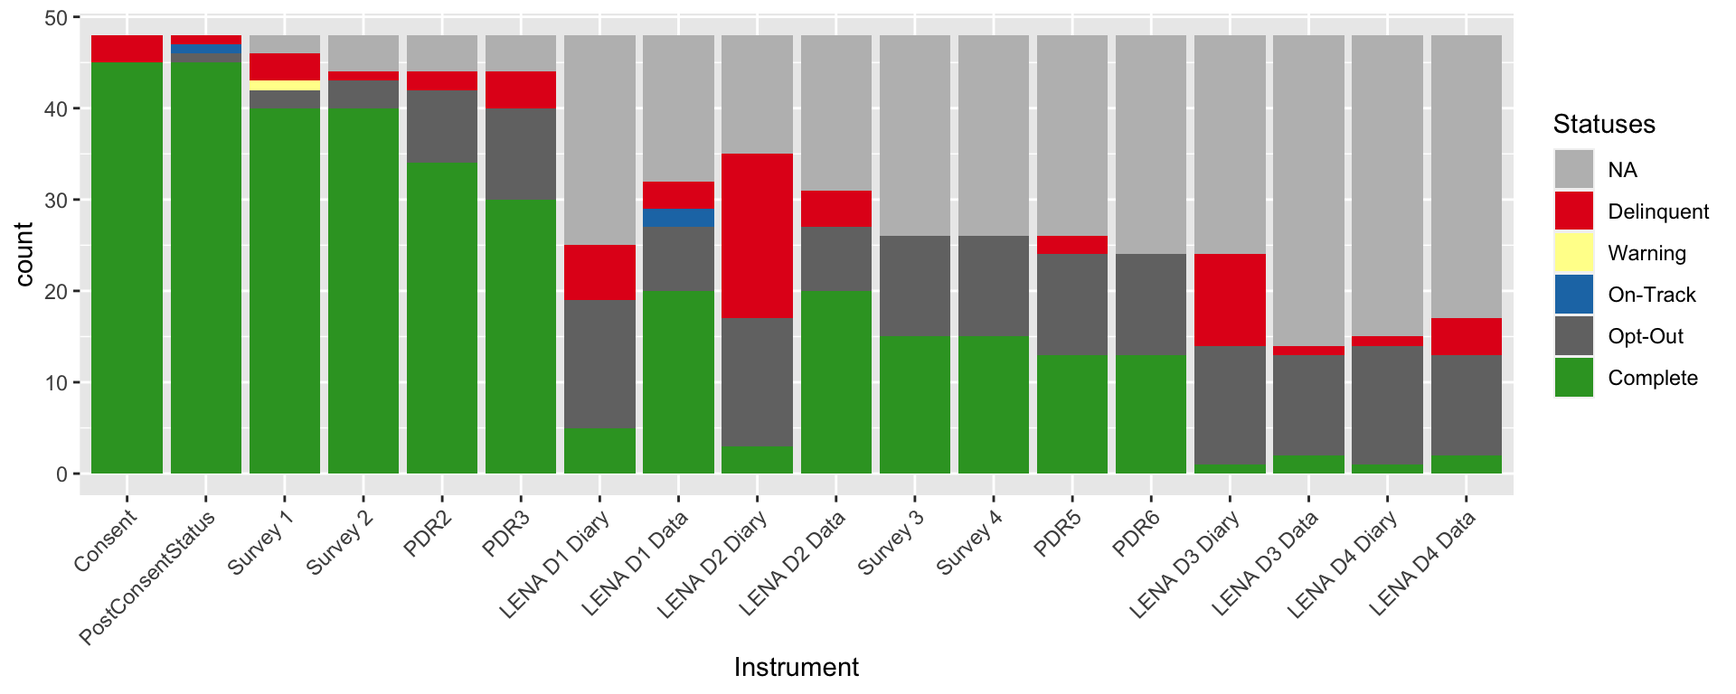
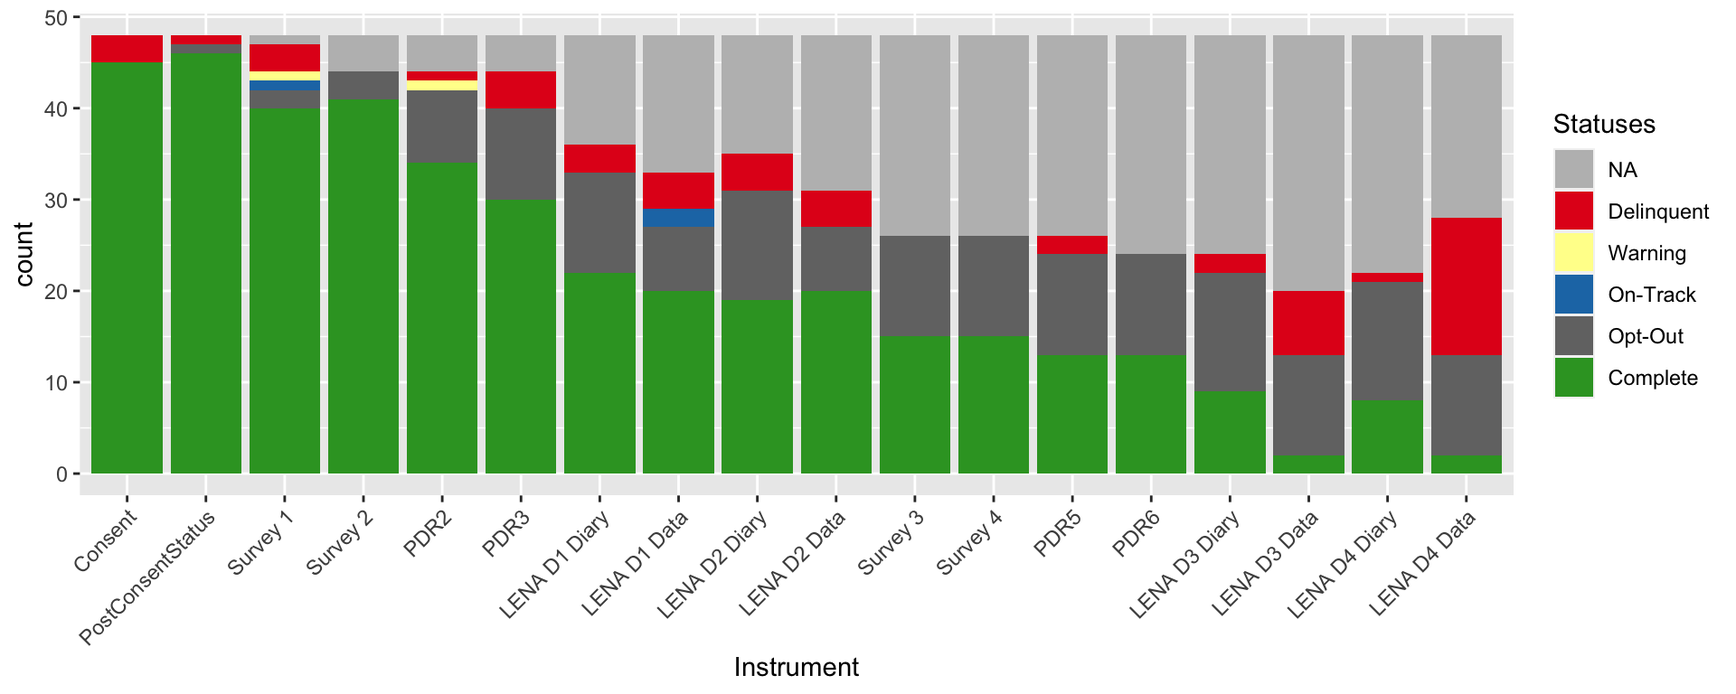
Update LENA definitions to start date instead of first question

diff --git a/_site/reports.html b/_site/reports.html
@@ -399,7 +399,7 @@ $(document).ready(function () {
 </div>
 <center>
 <div id="htmlwidget-64dbf7ed44db75815197" style="width:960px;height:384px;" class="plotly html-widget"></div>
-<script type="application/json" data-for="htmlwidget-64dbf7ed44db75815197">{"x":{"data":[{"x":[1594210295,1595855440,1595947129,1596636699,1597147658,1597190400,1597276800,1597402867,1598436608,1598538979,1598541299,1598955066,1599570320,1600250194,1600255992,1600300800,1600355481,1600387200,1600863340,1601302221,1601566658,1602239005,1603368728,1603379955,1603670400,1603977413,1604491899,1604751373,1605089156,1605179257,1605721538,1605872792,1607040000,1607472000,1607644800,1607687486,1609891200,1609897301,1611187200,1611878400,1612396800,1612396800,1612396800,1611878400,1611187200,1609897301,1609891200,1607687486,1607644800,1607472000,1607040000,1605872792,1605721538,1605179257,1605089156,1604751373,1604491899,1603977413,1603670400,1603379955,1603368728,1602239005,1601566658,1601302221,1600863340,1600387200,1600355481,1600300800,1600255992,1600250194,1599570320,1598955066,1598541299,1598538979,1598436608,1597402867,1597276800,1597190400,1597147658,1596636699,1595947129,1595855440,1594210295,1594210295],"y":[0,0,0,0,0,0,0,0,0,0,0,0,0,0,0,0,0,0,0,0,0,0,0,0,0,0,0,0,0,0,0,0,0,0,0,0,0,0,0,0,0,0,42,41,40,39,38,37,36,35,34,33,32,31,30,29,28,27,26,25,24,23,22,21,20,19,18,17,16,15,14,13,12,11,10,9,8,6,5,4,3,2,1,0],"text":["InformedConsent: 2020-07-08 19:11:35<br />Cumulative:  1","InformedConsent: 2020-07-27 20:10:40<br />Cumulative:  2","InformedConsent: 2020-07-28 21:38:49<br />Cumulative:  3","InformedConsent: 2020-08-05 21:11:39<br />Cumulative:  4","InformedConsent: 2020-08-11 19:07:38<br />Cumulative:  5","InformedConsent: 2020-08-12 07:00:00<br />Cumulative:  6","InformedConsent: 2020-08-13 07:00:00<br />Cumulative:  8","InformedConsent: 2020-08-14 18:01:07<br />Cumulative:  9","InformedConsent: 2020-08-26 17:10:08<br />Cumulative: 10","InformedConsent: 2020-08-27 21:36:19<br />Cumulative: 11","InformedConsent: 2020-08-27 22:14:59<br />Cumulative: 12","InformedConsent: 2020-09-01 17:11:06<br />Cumulative: 13","InformedConsent: 2020-09-08 20:05:20<br />Cumulative: 14","InformedConsent: 2020-09-16 16:56:34<br />Cumulative: 15","InformedConsent: 2020-09-16 18:33:12<br />Cumulative: 16","InformedConsent: 2020-09-17 07:00:00<br />Cumulative: 17","InformedConsent: 2020-09-17 22:11:21<br />Cumulative: 18","InformedConsent: 2020-09-18 07:00:00<br />Cumulative: 19","InformedConsent: 2020-09-23 19:15:40<br />Cumulative: 20","InformedConsent: 2020-09-28 21:10:21<br />Cumulative: 21","InformedConsent: 2020-10-01 22:37:38<br />Cumulative: 22","InformedConsent: 2020-10-09 17:23:25<br />Cumulative: 23","InformedConsent: 2020-10-22 19:12:08<br />Cumulative: 24","InformedConsent: 2020-10-22 22:19:15<br />Cumulative: 25","InformedConsent: 2020-10-26 07:00:00<br />Cumulative: 26","InformedConsent: 2020-10-29 20:16:53<br />Cumulative: 27","InformedConsent: 2020-11-04 20:11:39<br />Cumulative: 28","InformedConsent: 2020-11-07 20:16:13<br />Cumulative: 29","InformedConsent: 2020-11-11 18:05:56<br />Cumulative: 30","InformedConsent: 2020-11-12 19:07:37<br />Cumulative: 31","InformedConsent: 2020-11-19 01:45:38<br />Cumulative: 32","InformedConsent: 2020-11-20 19:46:32<br />Cumulative: 33","InformedConsent: 2020-12-04 08:00:00<br />Cumulative: 34","InformedConsent: 2020-12-09 08:00:00<br />Cumulative: 35","InformedConsent: 2020-12-11 08:00:00<br />Cumulative: 36","InformedConsent: 2020-12-11 19:51:26<br />Cumulative: 37","InformedConsent: 2021-01-06 08:00:00<br />Cumulative: 38","InformedConsent: 2021-01-06 09:41:41<br />Cumulative: 39","InformedConsent: 2021-01-21 08:00:00<br />Cumulative: 40","InformedConsent: 2021-01-29 08:00:00<br />Cumulative: 41","InformedConsent: 2021-02-04 08:00:00<br />Cumulative: 42","InformedConsent: 2021-02-04 08:00:00<br />Cumulative: 42","InformedConsent: 2021-02-04 08:00:00<br />Cumulative: 42","InformedConsent: 2021-01-29 08:00:00<br />Cumulative: 41","InformedConsent: 2021-01-21 08:00:00<br />Cumulative: 40","InformedConsent: 2021-01-06 09:41:41<br />Cumulative: 39","InformedConsent: 2021-01-06 08:00:00<br />Cumulative: 38","InformedConsent: 2020-12-11 19:51:26<br />Cumulative: 37","InformedConsent: 2020-12-11 08:00:00<br />Cumulative: 36","InformedConsent: 2020-12-09 08:00:00<br />Cumulative: 35","InformedConsent: 2020-12-04 08:00:00<br />Cumulative: 34","InformedConsent: 2020-11-20 19:46:32<br />Cumulative: 33","InformedConsent: 2020-11-19 01:45:38<br />Cumulative: 32","InformedConsent: 2020-11-12 19:07:37<br />Cumulative: 31","InformedConsent: 2020-11-11 18:05:56<br />Cumulative: 30","InformedConsent: 2020-11-07 20:16:13<br />Cumulative: 29","InformedConsent: 2020-11-04 20:11:39<br />Cumulative: 28","InformedConsent: 2020-10-29 20:16:53<br />Cumulative: 27","InformedConsent: 2020-10-26 07:00:00<br />Cumulative: 26","InformedConsent: 2020-10-22 22:19:15<br />Cumulative: 25","InformedConsent: 2020-10-22 19:12:08<br />Cumulative: 24","InformedConsent: 2020-10-09 17:23:25<br />Cumulative: 23","InformedConsent: 2020-10-01 22:37:38<br />Cumulative: 22","InformedConsent: 2020-09-28 21:10:21<br />Cumulative: 21","InformedConsent: 2020-09-23 19:15:40<br />Cumulative: 20","InformedConsent: 2020-09-18 07:00:00<br />Cumulative: 19","InformedConsent: 2020-09-17 22:11:21<br />Cumulative: 18","InformedConsent: 2020-09-17 07:00:00<br />Cumulative: 17","InformedConsent: 2020-09-16 18:33:12<br />Cumulative: 16","InformedConsent: 2020-09-16 16:56:34<br />Cumulative: 15","InformedConsent: 2020-09-08 20:05:20<br />Cumulative: 14","InformedConsent: 2020-09-01 17:11:06<br />Cumulative: 13","InformedConsent: 2020-08-27 22:14:59<br />Cumulative: 12","InformedConsent: 2020-08-27 21:36:19<br />Cumulative: 11","InformedConsent: 2020-08-26 17:10:08<br />Cumulative: 10","InformedConsent: 2020-08-14 18:01:07<br />Cumulative:  9","InformedConsent: 2020-08-13 07:00:00<br />Cumulative:  8","InformedConsent: 2020-08-12 07:00:00<br />Cumulative:  6","InformedConsent: 2020-08-11 19:07:38<br />Cumulative:  5","InformedConsent: 2020-08-05 21:11:39<br />Cumulative:  4","InformedConsent: 2020-07-28 21:38:49<br />Cumulative:  3","InformedConsent: 2020-07-27 20:10:40<br />Cumulative:  2","InformedConsent: 2020-07-08 19:11:35<br />Cumulative:  1","InformedConsent: 2020-07-08 19:11:35<br />Cumulative:  1"],"type":"scatter","mode":"lines","line":{"width":1.88976377952756,"color":"transparent","dash":"solid"},"fill":"toself","fillcolor":"rgba(105,179,162,0.5)","hoveron":"points","showlegend":false,"xaxis":"x","yaxis":"y","hoverinfo":"text","frame":null},{"x":[1594210295,1595855440,1595947129,1596636699,1597147658,1597190400,1597276800,1597402867,1598436608,1598538979,1598541299,1598955066,1599570320,1600250194,1600255992,1600300800,1600355481,1600387200,1600863340,1601302221,1601566658,1602239005,1603368728,1603379955,1603670400,1603977413,1604491899,1604751373,1605089156,1605179257,1605721538,1605872792,1607040000,1607472000,1607644800,1607687486,1609891200,1609897301,1611187200,1611878400,1612396800,null],"y":[1,2,3,4,5,6,8,9,10,11,12,13,14,15,16,17,18,19,20,21,22,23,24,25,26,27,28,29,30,31,32,33,34,35,36,37,38,39,40,41,42,48],"text":["InformedConsent: 2020-07-08 12:11:35<br />Cumulative:  1","InformedConsent: 2020-07-27 13:10:40<br />Cumulative:  2","InformedConsent: 2020-07-28 14:38:49<br />Cumulative:  3","InformedConsent: 2020-08-05 14:11:39<br />Cumulative:  4","InformedConsent: 2020-08-11 12:07:38<br />Cumulative:  5","InformedConsent: 2020-08-12 00:00:00<br />Cumulative:  6","InformedConsent: 2020-08-13 00:00:00<br />Cumulative:  8","InformedConsent: 2020-08-14 11:01:07<br />Cumulative:  9","InformedConsent: 2020-08-26 10:10:08<br />Cumulative: 10","InformedConsent: 2020-08-27 14:36:19<br />Cumulative: 11","InformedConsent: 2020-08-27 15:14:59<br />Cumulative: 12","InformedConsent: 2020-09-01 10:11:06<br />Cumulative: 13","InformedConsent: 2020-09-08 13:05:20<br />Cumulative: 14","InformedConsent: 2020-09-16 09:56:34<br />Cumulative: 15","InformedConsent: 2020-09-16 11:33:12<br />Cumulative: 16","InformedConsent: 2020-09-17 00:00:00<br />Cumulative: 17","InformedConsent: 2020-09-17 15:11:21<br />Cumulative: 18","InformedConsent: 2020-09-18 00:00:00<br />Cumulative: 19","InformedConsent: 2020-09-23 12:15:40<br />Cumulative: 20","InformedConsent: 2020-09-28 14:10:21<br />Cumulative: 21","InformedConsent: 2020-10-01 15:37:38<br />Cumulative: 22","InformedConsent: 2020-10-09 10:23:25<br />Cumulative: 23","InformedConsent: 2020-10-22 12:12:08<br />Cumulative: 24","InformedConsent: 2020-10-22 15:19:15<br />Cumulative: 25","InformedConsent: 2020-10-26 00:00:00<br />Cumulative: 26","InformedConsent: 2020-10-29 13:16:53<br />Cumulative: 27","InformedConsent: 2020-11-04 12:11:39<br />Cumulative: 28","InformedConsent: 2020-11-07 12:16:13<br />Cumulative: 29","InformedConsent: 2020-11-11 10:05:56<br />Cumulative: 30","InformedConsent: 2020-11-12 11:07:37<br />Cumulative: 31","InformedConsent: 2020-11-18 17:45:38<br />Cumulative: 32","InformedConsent: 2020-11-20 11:46:32<br />Cumulative: 33","InformedConsent: 2020-12-04 00:00:00<br />Cumulative: 34","InformedConsent: 2020-12-09 00:00:00<br />Cumulative: 35","InformedConsent: 2020-12-11 00:00:00<br />Cumulative: 36","InformedConsent: 2020-12-11 11:51:26<br />Cumulative: 37","InformedConsent: 2021-01-06 00:00:00<br />Cumulative: 38","InformedConsent: 2021-01-06 01:41:41<br />Cumulative: 39","InformedConsent: 2021-01-21 00:00:00<br />Cumulative: 40","InformedConsent: 2021-01-29 00:00:00<br />Cumulative: 41","InformedConsent: 2021-02-04 00:00:00<br />Cumulative: 42","InformedConsent: NA<br />Cumulative: 48"],"type":"scatter","mode":"lines","line":{"width":1.88976377952756,"color":"rgba(105,179,162,1)","dash":"solid"},"hoveron":"points","showlegend":false,"xaxis":"x","yaxis":"y","hoverinfo":"text","frame":null}],"layout":{"margin":{"t":65.813200498132,"r":39.8505603985056,"b":80.8634288086343,"l":70.9007887090079},"font":{"color":"rgba(0,0,0,1)","family":"Arial Narrow","size":15.2760481527605},"xaxis":{"domain":[0,1],"automargin":true,"type":"linear","autorange":false,"range":[1593300969.75,1613306125.25],"tickmode":"array","ticktext":["Jul","Oct","Jan"],"tickvals":[1593561600,1601510400,1609459200],"categoryorder":"array","categoryarray":["Jul","Oct","Jan"],"nticks":null,"ticks":"","tickcolor":null,"ticklen":3.81901203819012,"tickwidth":0,"showticklabels":true,"tickfont":{"color":"rgba(77,77,77,1)","family":"Arial Narrow","size":15.2760481527605},"tickangle":-0,"showline":false,"linecolor":null,"linewidth":0,"showgrid":true,"gridcolor":"rgba(204,204,204,1)","gridwidth":0.265670402656704,"zeroline":false,"anchor":"y","title":{"text":"Time","font":{"color":"rgba(0,0,0,1)","family":"Arial Narrow","size":11.9551681195517}},"hoverformat":".2f"},"yaxis":{"domain":[0,1],"automargin":true,"type":"linear","autorange":false,"range":[-2.4,50.4],"tickmode":"array","ticktext":["0","10","20","30","40","50"],"tickvals":[0,10,20,30,40,50],"categoryorder":"array","categoryarray":["0","10","20","30","40","50"],"nticks":null,"ticks":"","tickcolor":null,"ticklen":3.81901203819012,"tickwidth":0,"showticklabels":true,"tickfont":{"color":"rgba(77,77,77,1)","family":"Arial Narrow","size":15.2760481527605},"tickangle":-0,"showline":false,"linecolor":null,"linewidth":0,"showgrid":true,"gridcolor":"rgba(204,204,204,1)","gridwidth":0.265670402656704,"zeroline":false,"anchor":"x","title":{"text":"Dyad Count","font":{"color":"rgba(0,0,0,1)","family":"Arial Narrow","size":11.9551681195517}},"hoverformat":".2f"},"shapes":[{"type":"rect","fillcolor":null,"line":{"color":null,"width":0,"linetype":[]},"yref":"paper","xref":"paper","x0":0,"x1":1,"y0":0,"y1":1}],"showlegend":false,"legend":{"bgcolor":null,"bordercolor":null,"borderwidth":0,"font":{"color":"rgba(0,0,0,1)","family":"Arial Narrow","size":12.2208385222084}},"hovermode":"closest","barmode":"relative"},"config":{"doubleClick":"reset","showSendToCloud":false},"source":"A","attrs":{"e2d06a9a5a6b":{"x":{},"y":{},"type":"scatter"},"e2d03ba65d7a":{"x":{},"y":{}}},"cur_data":"e2d06a9a5a6b","visdat":{"e2d06a9a5a6b":["function (y) ","x"],"e2d03ba65d7a":["function (y) ","x"]},"highlight":{"on":"plotly_click","persistent":false,"dynamic":false,"selectize":false,"opacityDim":0.2,"selected":{"opacity":1},"debounce":0},"shinyEvents":["plotly_hover","plotly_click","plotly_selected","plotly_relayout","plotly_brushed","plotly_brushing","plotly_clickannotation","plotly_doubleclick","plotly_deselect","plotly_afterplot","plotly_sunburstclick"],"base_url":"https://plot.ly"},"evals":[],"jsHooks":[]}</script><img src="reports_files/figure-html/SEAL%20Conditions%20Plot-2.png" width="960" />
+<script type="application/json" data-for="htmlwidget-64dbf7ed44db75815197">{"x":{"data":[{"x":[1594210295,1595855440,1595947129,1596636699,1597147658,1597190400,1597276800,1597402867,1598436608,1598538979,1598541299,1598955066,1599570320,1600250194,1600255992,1600300800,1600355481,1600387200,1600863340,1601302221,1601566658,1602239005,1603368728,1603379955,1603670400,1603977413,1604491899,1604751373,1605089156,1605179257,1605721538,1605872792,1607040000,1607472000,1607644800,1607687486,1609891200,1609897301,1611187200,1611878400,1612396800,1612396800,1612396800,1611878400,1611187200,1609897301,1609891200,1607687486,1607644800,1607472000,1607040000,1605872792,1605721538,1605179257,1605089156,1604751373,1604491899,1603977413,1603670400,1603379955,1603368728,1602239005,1601566658,1601302221,1600863340,1600387200,1600355481,1600300800,1600255992,1600250194,1599570320,1598955066,1598541299,1598538979,1598436608,1597402867,1597276800,1597190400,1597147658,1596636699,1595947129,1595855440,1594210295,1594210295],"y":[0,0,0,0,0,0,0,0,0,0,0,0,0,0,0,0,0,0,0,0,0,0,0,0,0,0,0,0,0,0,0,0,0,0,0,0,0,0,0,0,0,0,42,41,40,39,38,37,36,35,34,33,32,31,30,29,28,27,26,25,24,23,22,21,20,19,18,17,16,15,14,13,12,11,10,9,8,6,5,4,3,2,1,0],"text":["InformedConsent: 2020-07-08 19:11:35<br />Cumulative:  1","InformedConsent: 2020-07-27 20:10:40<br />Cumulative:  2","InformedConsent: 2020-07-28 21:38:49<br />Cumulative:  3","InformedConsent: 2020-08-05 21:11:39<br />Cumulative:  4","InformedConsent: 2020-08-11 19:07:38<br />Cumulative:  5","InformedConsent: 2020-08-12 07:00:00<br />Cumulative:  6","InformedConsent: 2020-08-13 07:00:00<br />Cumulative:  8","InformedConsent: 2020-08-14 18:01:07<br />Cumulative:  9","InformedConsent: 2020-08-26 17:10:08<br />Cumulative: 10","InformedConsent: 2020-08-27 21:36:19<br />Cumulative: 11","InformedConsent: 2020-08-27 22:14:59<br />Cumulative: 12","InformedConsent: 2020-09-01 17:11:06<br />Cumulative: 13","InformedConsent: 2020-09-08 20:05:20<br />Cumulative: 14","InformedConsent: 2020-09-16 16:56:34<br />Cumulative: 15","InformedConsent: 2020-09-16 18:33:12<br />Cumulative: 16","InformedConsent: 2020-09-17 07:00:00<br />Cumulative: 17","InformedConsent: 2020-09-17 22:11:21<br />Cumulative: 18","InformedConsent: 2020-09-18 07:00:00<br />Cumulative: 19","InformedConsent: 2020-09-23 19:15:40<br />Cumulative: 20","InformedConsent: 2020-09-28 21:10:21<br />Cumulative: 21","InformedConsent: 2020-10-01 22:37:38<br />Cumulative: 22","InformedConsent: 2020-10-09 17:23:25<br />Cumulative: 23","InformedConsent: 2020-10-22 19:12:08<br />Cumulative: 24","InformedConsent: 2020-10-22 22:19:15<br />Cumulative: 25","InformedConsent: 2020-10-26 07:00:00<br />Cumulative: 26","InformedConsent: 2020-10-29 20:16:53<br />Cumulative: 27","InformedConsent: 2020-11-04 20:11:39<br />Cumulative: 28","InformedConsent: 2020-11-07 20:16:13<br />Cumulative: 29","InformedConsent: 2020-11-11 18:05:56<br />Cumulative: 30","InformedConsent: 2020-11-12 19:07:37<br />Cumulative: 31","InformedConsent: 2020-11-19 01:45:38<br />Cumulative: 32","InformedConsent: 2020-11-20 19:46:32<br />Cumulative: 33","InformedConsent: 2020-12-04 08:00:00<br />Cumulative: 34","InformedConsent: 2020-12-09 08:00:00<br />Cumulative: 35","InformedConsent: 2020-12-11 08:00:00<br />Cumulative: 36","InformedConsent: 2020-12-11 19:51:26<br />Cumulative: 37","InformedConsent: 2021-01-06 08:00:00<br />Cumulative: 38","InformedConsent: 2021-01-06 09:41:41<br />Cumulative: 39","InformedConsent: 2021-01-21 08:00:00<br />Cumulative: 40","InformedConsent: 2021-01-29 08:00:00<br />Cumulative: 41","InformedConsent: 2021-02-04 08:00:00<br />Cumulative: 42","InformedConsent: 2021-02-04 08:00:00<br />Cumulative: 42","InformedConsent: 2021-02-04 08:00:00<br />Cumulative: 42","InformedConsent: 2021-01-29 08:00:00<br />Cumulative: 41","InformedConsent: 2021-01-21 08:00:00<br />Cumulative: 40","InformedConsent: 2021-01-06 09:41:41<br />Cumulative: 39","InformedConsent: 2021-01-06 08:00:00<br />Cumulative: 38","InformedConsent: 2020-12-11 19:51:26<br />Cumulative: 37","InformedConsent: 2020-12-11 08:00:00<br />Cumulative: 36","InformedConsent: 2020-12-09 08:00:00<br />Cumulative: 35","InformedConsent: 2020-12-04 08:00:00<br />Cumulative: 34","InformedConsent: 2020-11-20 19:46:32<br />Cumulative: 33","InformedConsent: 2020-11-19 01:45:38<br />Cumulative: 32","InformedConsent: 2020-11-12 19:07:37<br />Cumulative: 31","InformedConsent: 2020-11-11 18:05:56<br />Cumulative: 30","InformedConsent: 2020-11-07 20:16:13<br />Cumulative: 29","InformedConsent: 2020-11-04 20:11:39<br />Cumulative: 28","InformedConsent: 2020-10-29 20:16:53<br />Cumulative: 27","InformedConsent: 2020-10-26 07:00:00<br />Cumulative: 26","InformedConsent: 2020-10-22 22:19:15<br />Cumulative: 25","InformedConsent: 2020-10-22 19:12:08<br />Cumulative: 24","InformedConsent: 2020-10-09 17:23:25<br />Cumulative: 23","InformedConsent: 2020-10-01 22:37:38<br />Cumulative: 22","InformedConsent: 2020-09-28 21:10:21<br />Cumulative: 21","InformedConsent: 2020-09-23 19:15:40<br />Cumulative: 20","InformedConsent: 2020-09-18 07:00:00<br />Cumulative: 19","InformedConsent: 2020-09-17 22:11:21<br />Cumulative: 18","InformedConsent: 2020-09-17 07:00:00<br />Cumulative: 17","InformedConsent: 2020-09-16 18:33:12<br />Cumulative: 16","InformedConsent: 2020-09-16 16:56:34<br />Cumulative: 15","InformedConsent: 2020-09-08 20:05:20<br />Cumulative: 14","InformedConsent: 2020-09-01 17:11:06<br />Cumulative: 13","InformedConsent: 2020-08-27 22:14:59<br />Cumulative: 12","InformedConsent: 2020-08-27 21:36:19<br />Cumulative: 11","InformedConsent: 2020-08-26 17:10:08<br />Cumulative: 10","InformedConsent: 2020-08-14 18:01:07<br />Cumulative:  9","InformedConsent: 2020-08-13 07:00:00<br />Cumulative:  8","InformedConsent: 2020-08-12 07:00:00<br />Cumulative:  6","InformedConsent: 2020-08-11 19:07:38<br />Cumulative:  5","InformedConsent: 2020-08-05 21:11:39<br />Cumulative:  4","InformedConsent: 2020-07-28 21:38:49<br />Cumulative:  3","InformedConsent: 2020-07-27 20:10:40<br />Cumulative:  2","InformedConsent: 2020-07-08 19:11:35<br />Cumulative:  1","InformedConsent: 2020-07-08 19:11:35<br />Cumulative:  1"],"type":"scatter","mode":"lines","line":{"width":1.88976377952756,"color":"transparent","dash":"solid"},"fill":"toself","fillcolor":"rgba(105,179,162,0.5)","hoveron":"points","showlegend":false,"xaxis":"x","yaxis":"y","hoverinfo":"text","frame":null},{"x":[1594210295,1595855440,1595947129,1596636699,1597147658,1597190400,1597276800,1597402867,1598436608,1598538979,1598541299,1598955066,1599570320,1600250194,1600255992,1600300800,1600355481,1600387200,1600863340,1601302221,1601566658,1602239005,1603368728,1603379955,1603670400,1603977413,1604491899,1604751373,1605089156,1605179257,1605721538,1605872792,1607040000,1607472000,1607644800,1607687486,1609891200,1609897301,1611187200,1611878400,1612396800,null],"y":[1,2,3,4,5,6,8,9,10,11,12,13,14,15,16,17,18,19,20,21,22,23,24,25,26,27,28,29,30,31,32,33,34,35,36,37,38,39,40,41,42,48],"text":["InformedConsent: 2020-07-08 12:11:35<br />Cumulative:  1","InformedConsent: 2020-07-27 13:10:40<br />Cumulative:  2","InformedConsent: 2020-07-28 14:38:49<br />Cumulative:  3","InformedConsent: 2020-08-05 14:11:39<br />Cumulative:  4","InformedConsent: 2020-08-11 12:07:38<br />Cumulative:  5","InformedConsent: 2020-08-12 00:00:00<br />Cumulative:  6","InformedConsent: 2020-08-13 00:00:00<br />Cumulative:  8","InformedConsent: 2020-08-14 11:01:07<br />Cumulative:  9","InformedConsent: 2020-08-26 10:10:08<br />Cumulative: 10","InformedConsent: 2020-08-27 14:36:19<br />Cumulative: 11","InformedConsent: 2020-08-27 15:14:59<br />Cumulative: 12","InformedConsent: 2020-09-01 10:11:06<br />Cumulative: 13","InformedConsent: 2020-09-08 13:05:20<br />Cumulative: 14","InformedConsent: 2020-09-16 09:56:34<br />Cumulative: 15","InformedConsent: 2020-09-16 11:33:12<br />Cumulative: 16","InformedConsent: 2020-09-17 00:00:00<br />Cumulative: 17","InformedConsent: 2020-09-17 15:11:21<br />Cumulative: 18","InformedConsent: 2020-09-18 00:00:00<br />Cumulative: 19","InformedConsent: 2020-09-23 12:15:40<br />Cumulative: 20","InformedConsent: 2020-09-28 14:10:21<br />Cumulative: 21","InformedConsent: 2020-10-01 15:37:38<br />Cumulative: 22","InformedConsent: 2020-10-09 10:23:25<br />Cumulative: 23","InformedConsent: 2020-10-22 12:12:08<br />Cumulative: 24","InformedConsent: 2020-10-22 15:19:15<br />Cumulative: 25","InformedConsent: 2020-10-26 00:00:00<br />Cumulative: 26","InformedConsent: 2020-10-29 13:16:53<br />Cumulative: 27","InformedConsent: 2020-11-04 12:11:39<br />Cumulative: 28","InformedConsent: 2020-11-07 12:16:13<br />Cumulative: 29","InformedConsent: 2020-11-11 10:05:56<br />Cumulative: 30","InformedConsent: 2020-11-12 11:07:37<br />Cumulative: 31","InformedConsent: 2020-11-18 17:45:38<br />Cumulative: 32","InformedConsent: 2020-11-20 11:46:32<br />Cumulative: 33","InformedConsent: 2020-12-04 00:00:00<br />Cumulative: 34","InformedConsent: 2020-12-09 00:00:00<br />Cumulative: 35","InformedConsent: 2020-12-11 00:00:00<br />Cumulative: 36","InformedConsent: 2020-12-11 11:51:26<br />Cumulative: 37","InformedConsent: 2021-01-06 00:00:00<br />Cumulative: 38","InformedConsent: 2021-01-06 01:41:41<br />Cumulative: 39","InformedConsent: 2021-01-21 00:00:00<br />Cumulative: 40","InformedConsent: 2021-01-29 00:00:00<br />Cumulative: 41","InformedConsent: 2021-02-04 00:00:00<br />Cumulative: 42","InformedConsent: NA<br />Cumulative: 48"],"type":"scatter","mode":"lines","line":{"width":1.88976377952756,"color":"rgba(105,179,162,1)","dash":"solid"},"hoveron":"points","showlegend":false,"xaxis":"x","yaxis":"y","hoverinfo":"text","frame":null}],"layout":{"margin":{"t":65.813200498132,"r":39.8505603985056,"b":80.8634288086343,"l":70.9007887090079},"font":{"color":"rgba(0,0,0,1)","family":"Arial Narrow","size":15.2760481527605},"xaxis":{"domain":[0,1],"automargin":true,"type":"linear","autorange":false,"range":[1593300969.75,1613306125.25],"tickmode":"array","ticktext":["Jul","Oct","Jan"],"tickvals":[1593561600,1601510400,1609459200],"categoryorder":"array","categoryarray":["Jul","Oct","Jan"],"nticks":null,"ticks":"","tickcolor":null,"ticklen":3.81901203819012,"tickwidth":0,"showticklabels":true,"tickfont":{"color":"rgba(77,77,77,1)","family":"Arial Narrow","size":15.2760481527605},"tickangle":-0,"showline":false,"linecolor":null,"linewidth":0,"showgrid":true,"gridcolor":"rgba(204,204,204,1)","gridwidth":0.265670402656704,"zeroline":false,"anchor":"y","title":{"text":"Time","font":{"color":"rgba(0,0,0,1)","family":"Arial Narrow","size":11.9551681195517}},"hoverformat":".2f"},"yaxis":{"domain":[0,1],"automargin":true,"type":"linear","autorange":false,"range":[-2.4,50.4],"tickmode":"array","ticktext":["0","10","20","30","40","50"],"tickvals":[0,10,20,30,40,50],"categoryorder":"array","categoryarray":["0","10","20","30","40","50"],"nticks":null,"ticks":"","tickcolor":null,"ticklen":3.81901203819012,"tickwidth":0,"showticklabels":true,"tickfont":{"color":"rgba(77,77,77,1)","family":"Arial Narrow","size":15.2760481527605},"tickangle":-0,"showline":false,"linecolor":null,"linewidth":0,"showgrid":true,"gridcolor":"rgba(204,204,204,1)","gridwidth":0.265670402656704,"zeroline":false,"anchor":"x","title":{"text":"Dyad Count","font":{"color":"rgba(0,0,0,1)","family":"Arial Narrow","size":11.9551681195517}},"hoverformat":".2f"},"shapes":[{"type":"rect","fillcolor":null,"line":{"color":null,"width":0,"linetype":[]},"yref":"paper","xref":"paper","x0":0,"x1":1,"y0":0,"y1":1}],"showlegend":false,"legend":{"bgcolor":null,"bordercolor":null,"borderwidth":0,"font":{"color":"rgba(0,0,0,1)","family":"Arial Narrow","size":12.2208385222084}},"hovermode":"closest","barmode":"relative"},"config":{"doubleClick":"reset","showSendToCloud":false},"source":"A","attrs":{"10b3c5a11a2d4":{"x":{},"y":{},"type":"scatter"},"10b3c3bd93a7e":{"x":{},"y":{}}},"cur_data":"10b3c5a11a2d4","visdat":{"10b3c5a11a2d4":["function (y) ","x"],"10b3c3bd93a7e":["function (y) ","x"]},"highlight":{"on":"plotly_click","persistent":false,"dynamic":false,"selectize":false,"opacityDim":0.2,"selected":{"opacity":1},"debounce":0},"shinyEvents":["plotly_hover","plotly_click","plotly_selected","plotly_relayout","plotly_brushed","plotly_brushing","plotly_clickannotation","plotly_doubleclick","plotly_deselect","plotly_afterplot","plotly_sunburstclick"],"base_url":"https://plot.ly"},"evals":[],"jsHooks":[]}</script><img src="reports_files/figure-html/SEAL%20Conditions%20Plot-2.png" width="960" />
 <center>
 <div>
 

diff --git a/_site/enrollment.html b/_site/enrollment.html
@@ -400,18 +400,18 @@ $(document).ready(function () {
 </div>
 <div class="btn-group btn-group-justified">
 <div class="btn-group">
-<a href="#" class="btn btn-default"><strong>Post-Consent Complete</strong><br>42</a>
+<a href="#" class="btn btn-default"><strong>Post-Consent Complete</strong><br>43</a>
 </div>
 <div class="btn-group">
-<a href="#" class="btn btn-default"><strong>Post-Consent In Progress</strong><br>3</a>
+<a href="#" class="btn btn-default"><strong>Post-Consent In Progress</strong><br>2</a>
 </div>
 </div>
 <div class="btn-group btn-group-justified">
 <div class="btn-group">
-<a href="#" class="btn btn-primary"><strong>Wave 1 Complete</strong><br>3</a>
+<a href="#" class="btn btn-primary"><strong>Wave 1 Complete</strong><br>19</a>
 </div>
 <div class="btn-group">
-<a href="#" class="btn btn-primary"><strong>Wave 1 In Progress</strong><br>21</a>
+<a href="#" class="btn btn-primary"><strong>Wave 1 In Progress</strong><br>7</a>
 </div>
 <div class="btn-group">
 <a href="#" class="btn btn-primary"><strong>Wave 1 Drop-Outs</strong><br> 9 </a>
@@ -422,7 +422,7 @@ $(document).ready(function () {
 <a href="#" class="btn btn-success"><strong>Intervention Complete</strong><br>14</a>
 </div>
 <div class="btn-group">
-<a href="#" class="btn btn-success"><strong>Intervention In Progress</strong><br>3</a>
+<a href="#" class="btn btn-success"><strong>Intervention In Progress</strong><br>6</a>
 </div>
 <div class="btn-group">
 <a href="#" class="btn btn-success"><strong>Intervention Drop-Outs</strong><br>2 </a>
@@ -430,10 +430,10 @@ $(document).ready(function () {
 </div>
 <div class="btn-group btn-group-justified">
 <div class="btn-group">
-<a href="#" class="btn btn-info"><strong>Wave 2 Complete</strong><br>3</a>
+<a href="#" class="btn btn-info"><strong>Wave 2 Complete</strong><br>10</a>
 </div>
 <div class="btn-group">
-<a href="#" class="btn btn-info"><strong>Wave 2 In Progress</strong><br>10</a>
+<a href="#" class="btn btn-info"><strong>Wave 2 In Progress</strong><br>5</a>
 </div>
 <div class="btn-group">
 <a href="#" class="btn btn-info"><strong>Wave 2 Drop-Outs</strong><br>0 </a>
@@ -444,7 +444,7 @@ $(document).ready(function () {
 <a href="#" class="btn btn-warning"><strong>Wave 3 Complete</strong><br>TBD</a>
 </div>
 <div class="btn-group">
-<a href="#" class="btn btn-warning"><strong>Wave 3 In Progress</strong><br>3</a>
+<a href="#" class="btn btn-warning"><strong>Wave 3 In Progress</strong><br>10</a>
 </div>
 <div class="btn-group">
 <a href="#" class="btn btn-warning"><strong>Wave 3 Drop-Outs</strong><br>0 </a>
@@ -455,7 +455,7 @@ $(document).ready(function () {
 <a href="#" class="btn btn-danger"><strong>Total Complete with Study</strong><br>TBD</a>
 </div>
 <div class="btn-group">
-<a href="#" class="btn btn-danger"><strong>Total In Progress</strong><br> 37 </a>
+<a href="#" class="btn btn-danger"><strong>Total In Progress</strong><br> 28 </a>
 </div>
 <div class="btn-group">
 <a href="#" class="btn btn-danger"><strong>Total Drop-Outs</strong><br>11</a>
@@ -525,13 +525,13 @@ Consent
 Post Consent
 </td>
 <td style="text-align:right;">
-45
+46
 </td>
 <td style="text-align:right;">
 1
 </td>
 <td style="text-align:right;">
-1
+0
 </td>
 <td style="text-align:right;">
 0
@@ -554,7 +554,7 @@ Survey 1
 2
 </td>
 <td style="text-align:right;">
-0
+1
 </td>
 <td style="text-align:right;">
 1
@@ -563,7 +563,7 @@ Survey 1
 3
 </td>
 <td style="text-align:right;">
-2
+1
 </td>
 </tr>
 <tr>
@@ -571,7 +571,7 @@ Survey 1
 Survey 2
 </td>
 <td style="text-align:right;">
-40
+41
 </td>
 <td style="text-align:right;">
 3
@@ -583,7 +583,7 @@ Survey 2
 0
 </td>
 <td style="text-align:right;">
-1
+0
 </td>
 <td style="text-align:right;">
 4
@@ -603,10 +603,10 @@ PDR2
 0
 </td>
 <td style="text-align:right;">
-0
+1
 </td>
 <td style="text-align:right;">
-2
+1
 </td>
 <td style="text-align:right;">
 4
@@ -640,22 +640,22 @@ PDR3
 LENA D1 Diary
 </td>
 <td style="text-align:right;">
-5
+22
 </td>
 <td style="text-align:right;">
-14
-</td>
-<td style="text-align:right;">
-0
+11
 </td>
 <td style="text-align:right;">
 0
 </td>
 <td style="text-align:right;">
-6
+0
 </td>
 <td style="text-align:right;">
-23
+3
+</td>
+<td style="text-align:right;">
+12
 </td>
 </tr>
 <tr>
@@ -675,10 +675,10 @@ LENA D1 Data
 0
 </td>
 <td style="text-align:right;">
-3
+4
 </td>
 <td style="text-align:right;">
-16
+15
 </td>
 </tr>
 <tr>
@@ -686,19 +686,19 @@ LENA D1 Data
 LENA D2 Diary
 </td>
 <td style="text-align:right;">
-3
+19
 </td>
 <td style="text-align:right;">
-14
-</td>
-<td style="text-align:right;">
-0
+12
 </td>
 <td style="text-align:right;">
 0
 </td>
 <td style="text-align:right;">
-18
+0
+</td>
+<td style="text-align:right;">
+4
 </td>
 <td style="text-align:right;">
 13
@@ -824,7 +824,7 @@ PDR6
 LENA D3 Diary
 </td>
 <td style="text-align:right;">
-1
+9
 </td>
 <td style="text-align:right;">
 13
@@ -836,7 +836,7 @@ LENA D3 Diary
 0
 </td>
 <td style="text-align:right;">
-10
+2
 </td>
 <td style="text-align:right;">
 24
@@ -859,10 +859,10 @@ LENA D3 Data
 0
 </td>
 <td style="text-align:right;">
-1
+7
 </td>
 <td style="text-align:right;">
-34
+28
 </td>
 </tr>
 <tr>
@@ -870,7 +870,7 @@ LENA D3 Data
 LENA D4 Diary
 </td>
 <td style="text-align:right;">
-1
+8
 </td>
 <td style="text-align:right;">
 13
@@ -885,7 +885,7 @@ LENA D4 Diary
 1
 </td>
 <td style="text-align:right;">
-33
+26
 </td>
 </tr>
 <tr>
@@ -905,10 +905,10 @@ LENA D4 Data
 0
 </td>
 <td style="text-align:right;">
-4
+15
 </td>
 <td style="text-align:right;">
-31
+20
 </td>
 </tr>
 </tbody>
